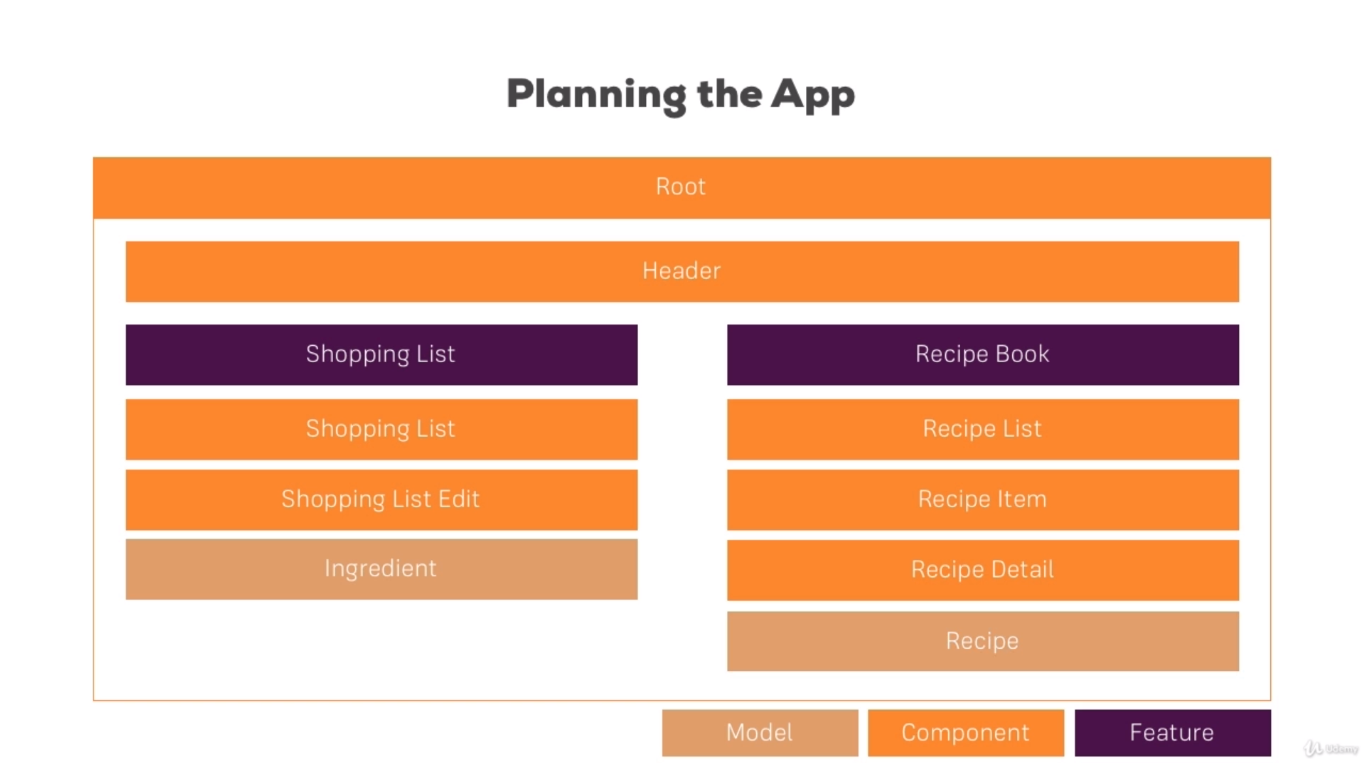
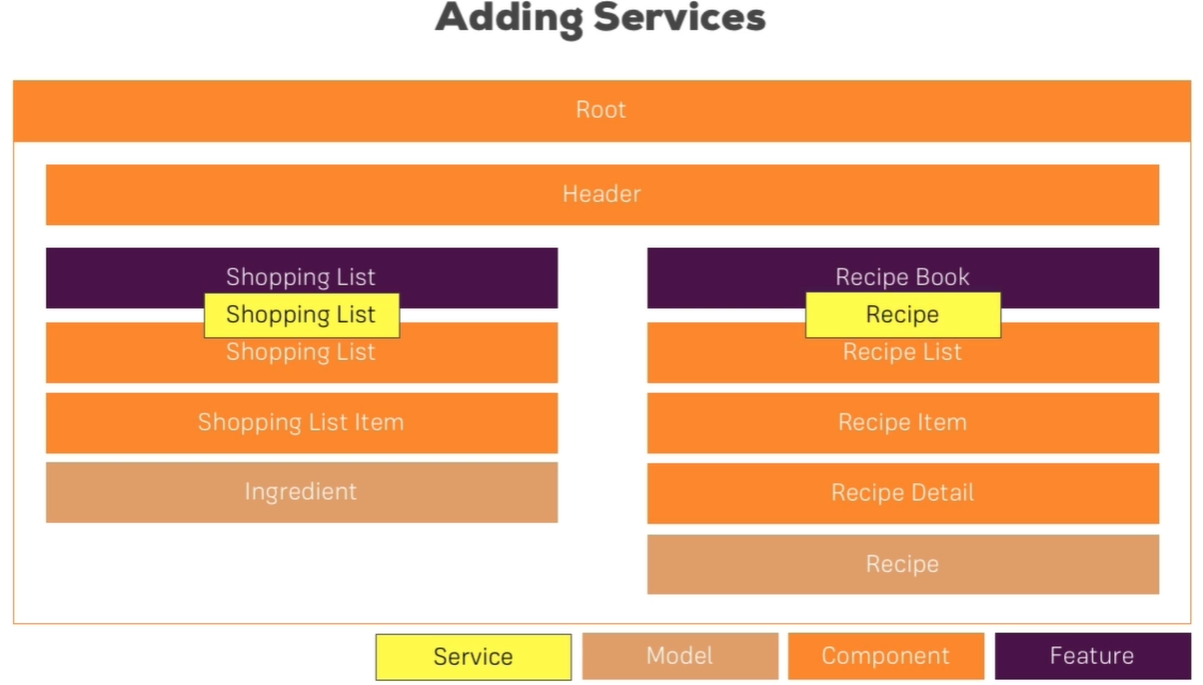
- Seção 10, adicionando services.

diff --git a/udemy-angular/course-project/src/app/shopping-list/shopping-edit/shopping-edit.component.ts b/udemy-angular/course-project/src/app/shopping-list/shopping-edit/shopping-edit.component.ts
@@ -1,5 +1,6 @@
 import { Component, ElementRef, EventEmitter, OnInit, Output, ViewChild } from '@angular/core';
 import { Ingredient } from '../../shared/ingredient.model';
+import { ShoppingListService } from '../shopping-list.service';
 
 @Component({
   selector: 'app-shopping-edit',
@@ -9,8 +10,8 @@ import { Ingredient } from '../../shared/ingredient.model';
 export class ShoppingEditComponent implements OnInit {
   @ViewChild('nameInput', { static: false}) nameInputRef: ElementRef;
   @ViewChild('amountInput', { static: false}) amountInputRef: ElementRef;
-  @Output() ingredientAdded = new EventEmitter<Ingredient>();
-  constructor() { }
+
+  constructor(private shoppingListService: ShoppingListService) { }
 
   ngOnInit(): void {
   }
@@ -19,6 +20,6 @@ export class ShoppingEditComponent implements OnInit {
     const ingName = this.nameInputRef.nativeElement.value;
     const ingAmount = this.amountInputRef.nativeElement.value;
     const newIngredient = new Ingredient(ingName, ingAmount);
-    this.ingredientAdded.emit(newIngredient);
+    this.shoppingListService.addIngredient(newIngredient);
   }
 }

diff --git a/udemy-angular/course-project/src/app/shopping-list/shopping-list.component.ts b/udemy-angular/course-project/src/app/shopping-list/shopping-list.component.ts
@@ -1,5 +1,6 @@
 import { Component, OnInit } from '@angular/core';
 import { Ingredient } from '../shared/ingredient.model';
+import { ShoppingListService } from './shopping-list.service';
 
 @Component({
   selector: 'app-shopping-list',
@@ -7,16 +8,14 @@ import { Ingredient } from '../shared/ingredient.model';
   styleUrls: ['./shopping-list.component.css']
 })
 export class ShoppingListComponent implements OnInit {
-  ingredients: Ingredient[] = [
-    new Ingredient('Apples', 5),
-    new Ingredient('Tomatoes', 10)
-  ];
-  constructor() { }
+  ingredients: Ingredient[];
+  constructor(private shoppingListService: ShoppingListService) { }
 
   ngOnInit(): void {
-  }
-
-  onIngredientAdded(ingredient: Ingredient) {
-    this.ingredients.push(ingredient);
+    this.ingredients = this.shoppingListService.getIngredients();
+    this.shoppingListService.ingredientsChanged
+      .subscribe((ingredients: Ingredient[]) => {
+        this.ingredients = ingredients;
+      });
   }
 }

diff --git a/udemy-angular/course-project/src/app/recipes/recipe-list/recipe-list.component.ts b/udemy-angular/course-project/src/app/recipes/recipe-list/recipe-list.component.ts
@@ -1,5 +1,6 @@
-import { Component, EventEmitter, OnInit, Output } from '@angular/core';
+import { Component, OnInit } from '@angular/core';
 import { Recipe } from '../recipe.model';
+import { RecipeService } from '../recipe.service';
 
 @Component({
   selector: 'app-recipe-list',
@@ -7,17 +8,11 @@ import { Recipe } from '../recipe.model';
   styleUrls: ['./recipe-list.component.css']
 })
 export class RecipeListComponent implements OnInit {
-  @Output() recipeWasSelected = new EventEmitter<Recipe>();
-  recipes: Recipe[] = [
-    new Recipe('A Test Recipe', 'This is simply a test', 'https://cdn.pixabay.com/photo/2016/06/15/19/09/food-1459693_960_720.jpg')
-  ];
+  recipes: Recipe[];
 
-  constructor() { }
+  constructor(private recipeService: RecipeService) { }
 
   ngOnInit(): void {
-  }
-
-  onRecipeSelected(recipe: Recipe) {
-    this.recipeWasSelected.emit(recipe);
+    this.recipes = this.recipeService.getRecipes();
   }
 }

diff --git a/udemy-angular/course-project/src/app/recipes/recipe.service.ts b/udemy-angular/course-project/src/app/recipes/recipe.service.ts
@@ -1,0 +1,32 @@
+import { EventEmitter, Injectable } from '@angular/core';
+import { Recipe } from './recipe.model';
+import { Ingredient } from '../shared/ingredient.model';
+import { ShoppingListService } from '../shopping-list/shopping-list.service';
+
+@Injectable({
+  providedIn: 'root'
+})
+export class RecipeService {
+  recipeSelected = new EventEmitter<Recipe>();
+
+  private recipes: Recipe[] = [
+    new Recipe('A Test Recipe',
+      'This is simply a test',
+      'https://cdn.pixabay.com/photo/2016/06/15/19/09/food-1459693_960_720.jpg',
+      [
+        new Ingredient('Meat', 1),
+        new Ingredient('French Fries', 20)
+      ])
+  ];
+
+  constructor(private shoppingListService: ShoppingListService) {
+  }
+
+  getRecipes() {
+    return this.recipes.slice();
+  }
+
+  addIngredientsToShoppingList(ingredients: Ingredient[]) {
+    this.shoppingListService.addIngredients(ingredients);
+  }
+}

diff --git a/udemy-angular/course-project/src/app/shopping-list/shopping-list.service.ts b/udemy-angular/course-project/src/app/shopping-list/shopping-list.service.ts
@@ -1,0 +1,32 @@
+import { EventEmitter, Injectable } from '@angular/core';
+import { Ingredient } from '../shared/ingredient.model';
+
+@Injectable({
+  providedIn: 'root'
+})
+export class ShoppingListService {
+  ingredientsChanged = new EventEmitter<Ingredient[]>();
+  private ingredients: Ingredient[] = [
+    new Ingredient('Apples', 5),
+    new Ingredient('Tomatoes', 10)
+  ];
+
+  constructor() { }
+
+  getIngredients(): Ingredient[] {
+    return this.ingredients.slice();
+  }
+
+  addIngredient(ingredient: Ingredient) {
+    this.ingredients.push(ingredient);
+    this.ingredientsChanged.emit(this.ingredients.slice());
+  }
+
+  addIngredients(ingredients: Ingredient[]) {
+    // for (const ingredient of ingredients) {
+    //   this.addIngredient(ingredient);
+    // }
+    this.ingredients.push(...ingredients);
+    this.ingredientsChanged.emit(this.ingredients.slice());
+  }
+}

diff --git a/udemy-angular/course-project/src/app/recipes/recipe-list/recipe-item/recipe-item.component.ts b/udemy-angular/course-project/src/app/recipes/recipe-list/recipe-item/recipe-item.component.ts
@@ -1,5 +1,6 @@
-import { Component, EventEmitter, Input, OnInit, Output } from '@angular/core';
+import { Component, Input, OnInit } from '@angular/core';
 import { Recipe } from '../../recipe.model';
+import { RecipeService } from '../../recipe.service';
 
 @Component({
   selector: 'app-recipe-item',
@@ -8,14 +9,13 @@ import { Recipe } from '../../recipe.model';
 })
 export class RecipeItemComponent implements OnInit {
   @Input() recipe: Recipe;
-  @Output() recipeSelected = new EventEmitter<void>();
 
-  constructor() { }
+  constructor(private recipeService: RecipeService) { }
 
   ngOnInit(): void {
   }
 
   onSelected() {
-    this.recipeSelected.emit();
+    this.recipeService.recipeSelected.emit(this.recipe);
   }
 }

diff --git a/udemy-angular/course-project/src/app/recipes/recipe-detail/recipe-detail.component.html b/udemy-angular/course-project/src/app/recipes/recipe-detail/recipe-detail.component.html
@@ -18,7 +18,7 @@
         Manage Recipe <span class="caret"></span>
       </button>
       <ul class="dropdown-menu">
-        <li><a href="#">To Shopping List</a></li>
+        <li><a (click)="onAddToShoppingList()" style="cursor: pointer;">To Shopping List</a></li>
         <li><a href="#">Edit Recipe</a></li>
         <li><a href="#">Delete Recipe</a></li>
       </ul>
@@ -32,6 +32,10 @@
 </div>
 <div class="row">
   <div class="col-xs-12">
-    Ingredients
+    <ul class="list-group">
+      <li class="list-group-item" *ngFor="let ingredient of recipe.ingredients">
+        {{ ingredient.name }} - {{ ingredient.amount }}
+      </li>
+    </ul>
   </div>
 </div>

diff --git a/udemy-angular/course-project/src/app/recipes/recipe-detail/recipe-detail.component.ts b/udemy-angular/course-project/src/app/recipes/recipe-detail/recipe-detail.component.ts
@@ -1,5 +1,6 @@
 import { Component, Input, OnInit } from '@angular/core';
 import { Recipe } from '../recipe.model';
+import { RecipeService } from '../recipe.service';
 
 @Component({
   selector: 'app-recipe-detail',
@@ -9,9 +10,12 @@ import { Recipe } from '../recipe.model';
 export class RecipeDetailComponent implements OnInit {
   @Input() recipe: Recipe;
 
-  constructor() { }
+  constructor(private recipeService: RecipeService) { }
 
   ngOnInit(): void {
   }
 
+  onAddToShoppingList() {
+    this.recipeService.addIngredientsToShoppingList(this.recipe.ingredients);
+  }
 }

diff --git a/udemy-angular/course-project/src/app/recipes/recipes.component.ts b/udemy-angular/course-project/src/app/recipes/recipes.component.ts
@@ -1,5 +1,6 @@
 import { Component, OnInit } from '@angular/core';
 import { Recipe } from './recipe.model';
+import { RecipeService } from './recipe.service';
 
 @Component({
   selector: 'app-recipes',
@@ -9,9 +10,13 @@ import { Recipe } from './recipe.model';
 export class RecipesComponent implements OnInit {
   selectedRecipe: Recipe;
 
-  constructor() { }
+  constructor(private recipeService: RecipeService) { }
 
   ngOnInit(): void {
+    this.recipeService.recipeSelected
+      .subscribe((recipe: Recipe) => {
+        this.selectedRecipe = recipe;
+      });
   }
 
 }

diff --git a/udemy-angular/course-project/src/app/recipes/recipe.model.ts b/udemy-angular/course-project/src/app/recipes/recipe.model.ts
@@ -1,11 +1,15 @@
+import { Ingredient } from '../shared/ingredient.model';
+
 export class Recipe {
   public name: string;
   public description: string;
   public imagePath: string;
+  public ingredients: Ingredient[];
 
-  constructor(name: string, description: string, imagePath: string) {
+  constructor(name: string, description: string, imagePath: string, ingredients: Ingredient[]) {
     this.name = name;
     this.description = description;
     this.imagePath = imagePath;
+    this.ingredients = ingredients;
   }
 }

diff --git a/udemy-angular/course-project/src/app/recipes/recipe-list/recipe-list.component.html b/udemy-angular/course-project/src/app/recipes/recipe-list/recipe-list.component.html
@@ -6,7 +6,7 @@
 <hr>
 <div class="row">
   <div class="col-xs-12">
-    <app-recipe-item *ngFor="let recipeEl of recipes" [recipe]="recipeEl"
-                     (recipeSelected)="onRecipeSelected(recipeEl)"></app-recipe-item>
+    <app-recipe-item *ngFor="let recipeEl of recipes"
+                     [recipe]="recipeEl"></app-recipe-item>
   </div>
 </div>

diff --git a/udemy-angular/course-project/src/app/recipes/recipes.component.html b/udemy-angular/course-project/src/app/recipes/recipes.component.html
@@ -1,6 +1,6 @@
 <div class="row">
   <div class="col-md-5">
-    <app-recipe-list (recipeWasSelected)="selectedRecipe = $event"></app-recipe-list>
+    <app-recipe-list></app-recipe-list>
   </div>
   <div class="col-md-7">
     <app-recipe-detail *ngIf="selectedRecipe; else infoText"
